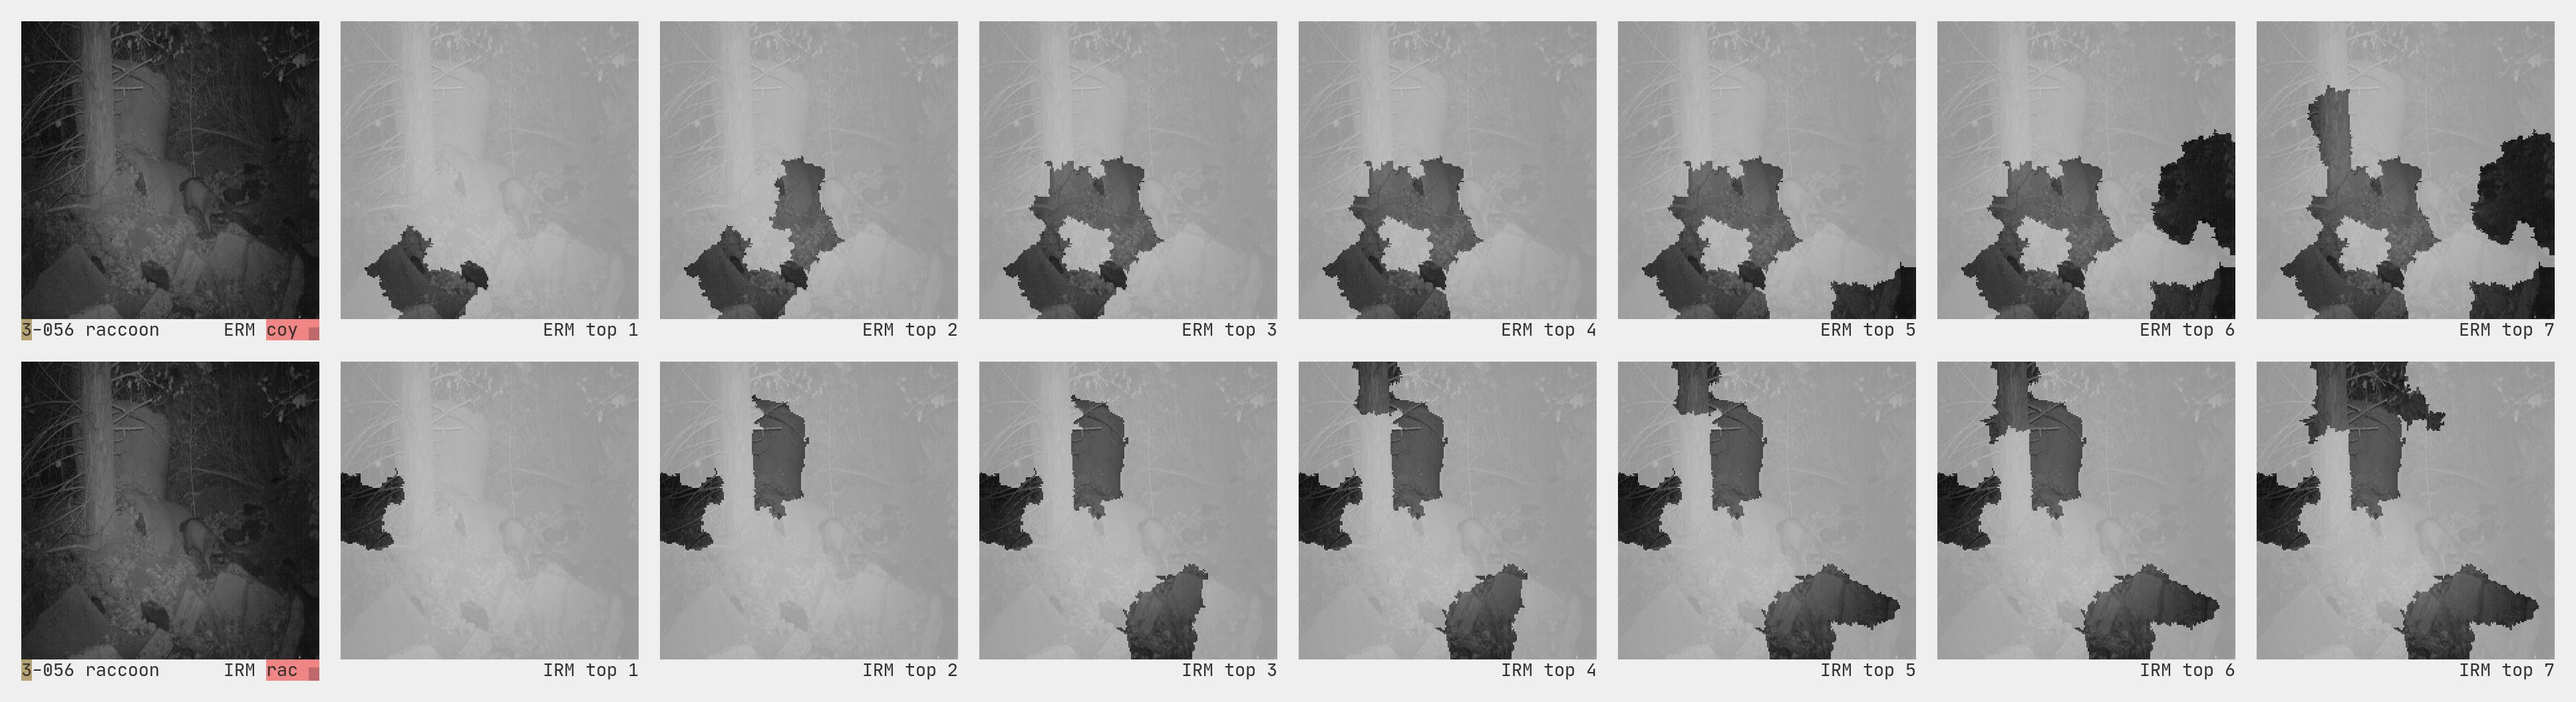
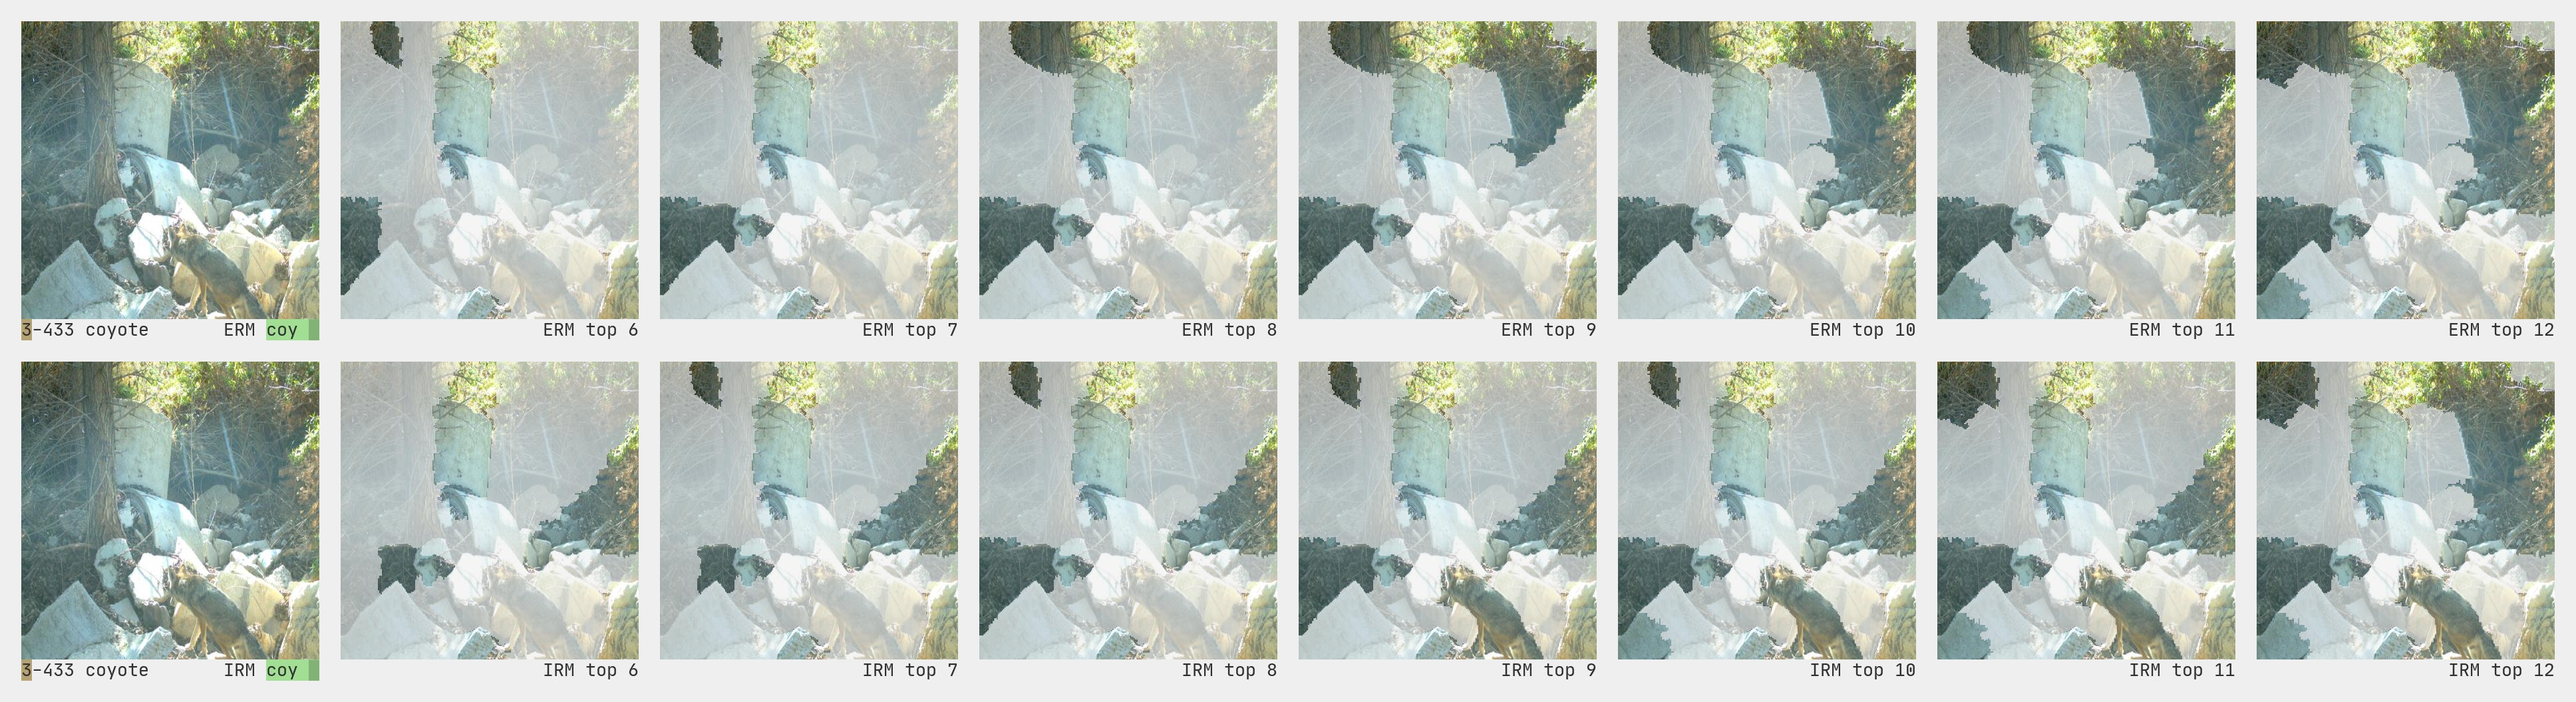
nisha suggestions

diff --git a/index.html b/index.html
@@ -50,11 +50,11 @@
       font-size: 13.333px;
       line-height: 16px;
       color: #2f2f2f;
-      background: #bfbfbf;
+      background: #cfcfcf;
       padding-left: 8px;
       padding-right: 8px;
       height: 24px;
-      border-top: solid 1px #9f9f9f;
+      border-top: solid 1px #afafaf;
      }
      p, .p {
       margin: 0;
@@ -106,8 +106,8 @@ font-family: custom; font-size: 15px; line-height: 1.2; padding-left: 3ch; margi
   <body>
     <div id="scroller">
     <div style="position: relative">
-          <div id="bar_0" class="bar" style="">
-            <div style="width: 100%; margin: 0 auto; display: flex; justify-content: space-between;"><div>0</div><div>prev next</div></div>
+          <div id="panel_0" class="bar" style="">
+            <div style="width: 100%; margin: 0 auto; display: flex; justify-content: space-between;"><div>0</div><div> <a href="#panel_1">next</a></div></div>
           </div>
         <div class="panel" style="position: relative;">
           <div style="width: 100%; padding-left: 464px; overflow: auto; padding-top: 0px; padding-bottom: 0px;">
@@ -121,7 +121,7 @@ font-family: custom; font-size: 15px; line-height: 1.2; padding-left: 3ch; margi
     <div class="spacer"></div>
     <h2>Contents</h2>
     <ol style="">
-    <li><a href="#bar_0">Training environments</a></li><li><a href="#bar_1">Model training</a></li><li><a href="#bar_2">Results: training datasets</a></li><li><a href="#bar_3">Results: test dataset</a></li><li><a href="#bar_4">Interpretability</a></li><li><a href="#bar_5">Ranking superpixels</a></li><li><a href="#bar_6">Model comparison</a></li>
+    <li><a href="#panel_0">Training environments</a></li><li><a href="#panel_1">Model training</a></li><li><a href="#panel_2">Results: training datasets</a></li><li><a href="#panel_3">Results: test dataset</a></li><li><a href="#panel_4">Interpretability</a></li><li><a href="#panel_5">Ranking superpixels</a></li><li><a href="#panel_6">Model comparison</a></li><li><a href="#panel_7">View all</a></li>
    </ol>
     </div>
   </div>
@@ -129,8 +129,8 @@ font-family: custom; font-size: 15px; line-height: 1.2; padding-left: 3ch; margi
         </div>
         </div>
 <div style="position: relative">
-          <div id="bar_1" class="bar" style="">
-            <div style="width: 100%; margin: 0 auto; display: flex; justify-content: space-between;"><div>1</div><div>prev next</div></div>
+          <div id="panel_1" class="bar" style="">
+            <div style="width: 100%; margin: 0 auto; display: flex; justify-content: space-between;"><div>1</div><div><a href="#panel_0">prev</a> <a href="#panel_2">next</a></div></div>
           </div>
         <div class="panel" style="position: relative;">
           <div style="width: 100%; padding-left: 464px; overflow: auto; padding-top: 0px; padding-bottom: 0px;">
@@ -153,19 +153,19 @@ font-family: custom; font-size: 15px; line-height: 1.2; padding-left: 3ch; margi
     <ul>
       <li>environment <span style="background: #FFF280;">1</span>
       <ul>
-      <li>658 images
+      <li>TODO
         <ul>
-      <li>582 racoons</li>
-      <li>276 coyotes</li>
+      <li></li>
+      <li></li>
         </ul>
       </li>
       </ul>
       <li>environment <span style="background: #FFAF66;">2</span>
       <ul>
-      <li>753 images
+      <li>TODO
         <ul>
-      <li>512 coyotes</li>
-      <li>241 raccoons</li>
+      <li></li>
+      <li></li>
         </ul>
       </li>
       </ul>
@@ -177,8 +177,8 @@ font-family: custom; font-size: 15px; line-height: 1.2; padding-left: 3ch; margi
         </div>
         </div>
 <div style="position: relative">
-          <div id="bar_2" class="bar" style="">
-            <div style="width: 100%; margin: 0 auto; display: flex; justify-content: space-between;"><div>2</div><div>prev next</div></div>
+          <div id="panel_2" class="bar" style="">
+            <div style="width: 100%; margin: 0 auto; display: flex; justify-content: space-between;"><div>2</div><div><a href="#panel_1">prev</a> <a href="#panel_3">next</a></div></div>
           </div>
         <div class="panel" style="position: relative;">
           <div style="width: 100%; padding-left: 464px; overflow: auto; padding-top: 0px; padding-bottom: 0px;">
@@ -201,8 +201,8 @@ font-family: custom; font-size: 15px; line-height: 1.2; padding-left: 3ch; margi
         </div>
         </div>
 <div style="position: relative">
-          <div id="bar_3" class="bar" style="">
-            <div style="width: 100%; margin: 0 auto; display: flex; justify-content: space-between;"><div>3</div><div>prev next</div></div>
+          <div id="panel_3" class="bar" style="">
+            <div style="width: 100%; margin: 0 auto; display: flex; justify-content: space-between;"><div>3</div><div><a href="#panel_2">prev</a> <a href="#panel_4">next</a></div></div>
           </div>
         <div class="panel" style="position: relative;">
           <div style="width: 100%; padding-left: 464px; overflow: auto; padding-top: 0px; padding-bottom: 0px;">
@@ -221,8 +221,8 @@ font-family: custom; font-size: 15px; line-height: 1.2; padding-left: 3ch; margi
         </div>
         </div>
 <div style="position: relative">
-          <div id="bar_4" class="bar" style="">
-            <div style="width: 100%; margin: 0 auto; display: flex; justify-content: space-between;"><div>4</div><div>prev next</div></div>
+          <div id="panel_4" class="bar" style="">
+            <div style="width: 100%; margin: 0 auto; display: flex; justify-content: space-between;"><div>4</div><div><a href="#panel_3">prev</a> <a href="#panel_5">next</a></div></div>
           </div>
         <div class="panel" style="position: relative;">
           <div style="width: 100%; padding-left: 464px; overflow: auto; padding-top: 0px; padding-bottom: 0px;">
@@ -238,8 +238,8 @@ font-family: custom; font-size: 15px; line-height: 1.2; padding-left: 3ch; margi
         </div>
         </div>
 <div style="position: relative">
-          <div id="bar_5" class="bar" style="">
-            <div style="width: 100%; margin: 0 auto; display: flex; justify-content: space-between;"><div>5</div><div>prev next</div></div>
+          <div id="panel_5" class="bar" style="">
+            <div style="width: 100%; margin: 0 auto; display: flex; justify-content: space-between;"><div>5</div><div><a href="#panel_4">prev</a> <a href="#panel_6">next</a></div></div>
           </div>
         <div class="panel" style="position: relative;">
           <div style="width: 100%; padding-left: 464px; overflow: auto; padding-top: 0px; padding-bottom: 0px;">
@@ -252,8 +252,8 @@ font-family: custom; font-size: 15px; line-height: 1.2; padding-left: 3ch; margi
         </div>
         </div>
 <div style="position: relative">
-          <div id="bar_6" class="bar" style="">
-            <div style="width: 100%; margin: 0 auto; display: flex; justify-content: space-between;"><div>6</div><div>prev next</div></div>
+          <div id="panel_6" class="bar" style="">
+            <div style="width: 100%; margin: 0 auto; display: flex; justify-content: space-between;"><div>6</div><div><a href="#panel_5">prev</a> <a href="#panel_7">next</a></div></div>
           </div>
         <div class="panel" style="position: relative;">
           <div style="width: 100%; padding-left: 464px; overflow: auto; padding-top: 0px; padding-bottom: 0px;">
@@ -268,8 +268,8 @@ font-family: custom; font-size: 15px; line-height: 1.2; padding-left: 3ch; margi
         </div>
         </div>
 <div style="position: relative">
-          <div id="bar_7" class="bar" style="">
-            <div style="width: 100%; margin: 0 auto; display: flex; justify-content: space-between;"><div>7</div><div>prev next</div></div>
+          <div id="panel_7" class="bar" style="">
+            <div style="width: 100%; margin: 0 auto; display: flex; justify-content: space-between;"><div>7</div><div><a href="#panel_6">prev</a> <a href="#panel_8">next</a></div></div>
           </div>
         <div class="panel" style="position: relative;">
           <div style="width: 100%; padding-left: 464px; overflow: auto; padding-top: 0px; padding-bottom: 0px;">
@@ -284,8 +284,8 @@ font-family: custom; font-size: 15px; line-height: 1.2; padding-left: 3ch; margi
         </div>
         </div>
 <div style="position: relative">
-          <div id="bar_8" class="bar" style="">
-            <div style="width: 100%; margin: 0 auto; display: flex; justify-content: space-between;"><div>8</div><div>prev next</div></div>
+          <div id="panel_8" class="bar" style="">
+            <div style="width: 100%; margin: 0 auto; display: flex; justify-content: space-between;"><div>8</div><div><a href="#panel_7">prev</a> </div></div>
           </div>
         <div class="panel" style="position: relative;">
           <div style="width: 100%; padding-left: 464px; overflow: auto; padding-top: 0px; padding-bottom: 0px;">

diff --git a/build_index.js b/build_index.js
@@ -2,6 +2,10 @@ let fs = require('fs')
 let { createCanvas: _createCanvas, loadImage } = require('canvas')
 let _ = require('lodash')
 
+function numberWithCommas(x) {
+  return x.toString().replace(/\B(?=(\d{3})+(?!\d))/g, ',')
+}
+
 let px = val => val + 'px'
 
 let createCanvas = (width, height) => {
@@ -392,9 +396,10 @@ let content_0 = `<div class="padded">
       'Interpretability',
       'Ranking superpixels',
       'Model comparison',
+      'View all',
     ]
       .map((n, i) => {
-        return `<li><a href="#bar_${i}">${n}</a></li>`
+        return `<li><a href="#panel_${i}">${n}</a></li>`
       })
       .join('')}
    </ol>
@@ -475,19 +480,19 @@ let content_1 = `<div class="padded">
     <ul>
       <li>environment <span style="background: ${highlights.yellow};">1</span>
       <ul>
-      <li>658 images
+      <li>TODO
         <ul>
-      <li>582 racoons</li>
-      <li>276 coyotes</li>
+      <li></li>
+      <li></li>
         </ul>
       </li>
       </ul>
       <li>environment <span style="background: ${highlights.orange};">2</span>
       <ul>
-      <li>753 images
+      <li>TODO
         <ul>
-      <li>512 coyotes</li>
-      <li>241 raccoons</li>
+      <li></li>
+      <li></li>
         </ul>
       </li>
       </ul>
@@ -921,7 +926,7 @@ if (args.includes('4')) {
     ..._.sampleSize(test_irm_only_right, 6),
     ..._.sampleSize(test_right, 6),
   ]
-  images = [output_with_indexes[1667], ..._.shuffle(images)]
+  images = [output_with_indexes[2044], ..._.shuffle(images)]
   for (let i = 0; i < images.length; i++) {
     let image = images[i]
     let [bx, by] = panel_image_slots[i]
@@ -1032,7 +1037,7 @@ if (args.includes('5')) {
 
   let promises = []
 
-  let test1 = output_with_indexes[1667]
+  let test1 = output_with_indexes[2044]
   for (let i = 0; i < 4; i++) {
     let image = test1
     let index = image.index
@@ -1317,7 +1322,7 @@ if (args.includes('6')) {
     return erm_prediction === label && irm_prediction === label
   })
 
-  let test1 = output_with_indexes[1667]
+  let test1 = output_with_indexes[2044]
   for (let i = 0; i < 8; i++) {
     let image = test1
     let index = image.index
@@ -1378,7 +1383,7 @@ if (args.includes('6')) {
         image.erm.prob * 16
       )
     } else {
-      let highlight_num = i
+      let highlight_num = i + 5
       let superpixel_num = og_item.erm.coefficients.length
       promises.push(
         placeSingleImageHighlight(
@@ -1392,7 +1397,7 @@ if (args.includes('6')) {
         )
       )
       cx.fillStyle = color.gray_text
-      let text = 'ERM top ' + i
+      let text = 'ERM top ' + (i + 5)
       let w = cx.measureText(text).width
       let rx = size.x - w - 16
       cx.fillText(text, x + rx, y + size.y - y_adjust)
@@ -1441,7 +1446,7 @@ if (args.includes('6')) {
       cx.fillText('IRM', x, y + size.y - y_adjust)
 
       x += 4 * 8
-      if (erm_prediction === label) {
+      if (irm_prediction === label) {
         cx.fillStyle = highlights.green
       } else {
         cx.fillStyle = highlights.red
@@ -1459,7 +1464,7 @@ if (args.includes('6')) {
         image.irm.prob * 16
       )
     } else {
-      let highlight_num = i
+      let highlight_num = i + 5
       let superpixel_num = og_item.erm.coefficients.length
       promises.push(
         placeSingleImageHighlight(
@@ -1473,7 +1478,7 @@ if (args.includes('6')) {
         )
       )
       cx.fillStyle = color.gray_text
-      let text = 'IRM top ' + i
+      let text = 'IRM top ' + (i + 5)
       let w = cx.measureText(text).width
       let rx = size.x - w - 16
       cx.fillText(text, x + rx, y + size.y - y_adjust)
@@ -1510,7 +1515,7 @@ if (args.includes('7')) {
   let promises = []
 
   let images = _.sampleSize(output_with_indexes, panel_image_num / 2)
-  let shortlist_test = [1667, 1446, 1838, 1347, 2044, 1750, 2078, 1851]
+  let shortlist_test = [2044, 1838, 1446, 1667, 1750, 1347, 1851, 2078]
   images = shortlist_test.map(i => output_with_indexes[i])
   for (let i = 0; i < images.length; i++) {
     let image = images[i]
@@ -2239,11 +2244,11 @@ let html = `<!DOCTYPE html>
       font-size: 13.333px;
       line-height: 16px;
       color: #2f2f2f;
-      background: #bfbfbf;
+      background: #cfcfcf;
       padding-left: 8px;
       padding-right: 8px;
       height: 24px;
-      border-top: solid 1px #9f9f9f;
+      border-top: solid 1px #afafaf;
      }
      p, .p {
       margin: 0;
@@ -2298,9 +2303,13 @@ font-family: custom; font-size: 15px; line-height: 1.2; padding-left: 3ch; margi
       .map((n, i) => {
         let content = contents[i]
         return `<div style="position: relative">
-          <div id="bar_${i}" class="bar" style="">
+          <div id="panel_${i}" class="bar" style="">
             <div style="width: 100%; margin: 0 auto; display: flex; justify-content: space-between;"><div>${i +
-              0}</div><div>prev next</div></div>
+              0}</div><div>${
+          i > 0 ? `<a href="#panel_${i - 1}">prev</a>` : ''
+        } ${
+          i < filenames.length - 1 ? `<a href="#panel_${i + 1}">next</a>` : ''
+        }</div></div>
           </div>
         <div class="panel" style="position: relative;">
           <div style="width: 100%; padding-left: ${size.x * 2 -
